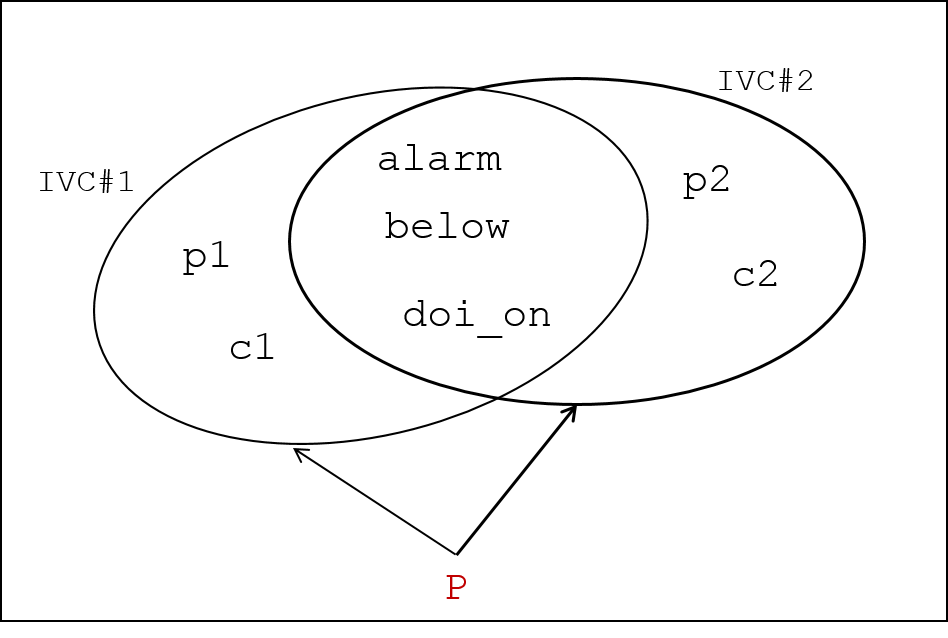
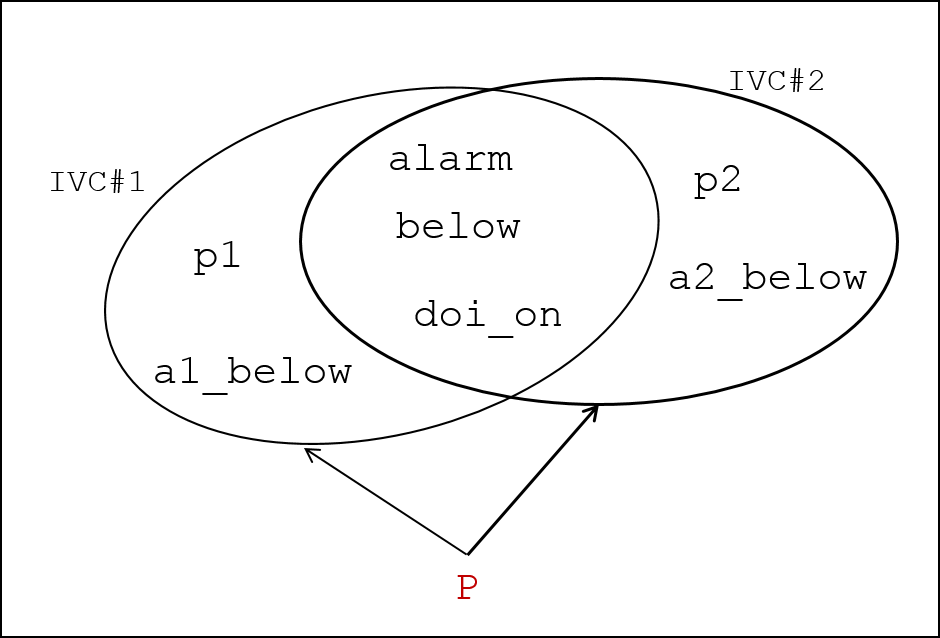
update the example-- all IVCs

diff --git a/all_ivcs/all_ivcs_TEX/allivcs.tex b/all_ivcs/all_ivcs_TEX/allivcs.tex
@@ -85,7 +85,7 @@ $\forall S \in AIVC(P)$, S is a minimal adequate set for $P$.
 The main core of an algorithm for computing $AIVC(P)$ is to choose an \emph{unexplored} $S \in \mathcal{P}(T)$ and examine whether or not it is adequate for $P$; if so, then compute an $S' \subseteq S$ such that $IVC(P, S')$.
 To choose $S$ and keep track of which parts of the the power set
 have been explored, we use a Boolean variable $map$, which is
-in conjunctive normal form (CNF) and built gradually as the algorithm proceeds. 
+in conjunctive normal form (CNF) and built gradually as the algorithm proceeds.
 Basically, with the help of $map$, an unexplored set $S$ is selected, and after processing $S$,
 formula $map$ is updated in a way, which will be described, that marks $S$ as \emph{explored}.
 As $map$ gets updated, it guides our exploration algorithm for $AIVC$.
@@ -97,7 +97,7 @@ set of activation literals $\mathcal{A} = \{a_1...a_n\}$, where every $a_i$ is o
 is a bijection function assigning every $T_i \in T$ to an $a_i \in \mathcal{A}$ and vice versa.
 Then, a $map$ for $AIVC(P)$ is a CNF formula built over the elements of $\mathcal{A}$ such that:
 \begin{itemize}
-  \item Initially $map$ is $\top$ interpreted as the fact that the whole $\mathcal{P}(T)$ is unexplored.   
+  \item Initially $map$ is $\top$ interpreted as the fact that the whole $\mathcal{P}(T)$ is unexplored.
 clauses to map to block or remove the corresponding models
   \item When $map$ is satisfiable, a model of it is a set
   $M \in \mathcal{P}(\mathcal{A})$.
@@ -127,7 +127,7 @@ From Case 1 and Case 2, there is no model of $map$ whose corresponding set in $\
 
 \begin{lemma}
 \label{lem:map:comp}
-For $(I, T) \vdash P$, $map$ is unsatisfiable \emph{iff} all $S \in AIVC(P)$ and all $MIS$es of $T$ have been explored.
+For $(I, T) \vdash P$, $map$ is unsatisfiable \emph{iff} all $S \in AIVC(P)$ and all $MIS$es of $T$ (and thus every $S \in \mathcal{P}(T)$) have been explored.
 \end{lemma}
 \begin{proof}
 As with any CNF formula, $map$ is unsatisfiable \emph{iff} every complete assignment falsifies at least one of its clauses. Clauses in $map$ have especial structure;
@@ -137,16 +137,24 @@ $S$ is inadequate, it means that $S$ lacks a correction set $C$ of $T$ so to pro
 And, in this case, a new clause containing \emph{positive} activation literals of $C$ is added to $map$. Essentially, elements of correction are essential part of some proofs, so are elements in the adequate sets, which means eventually, negative literals added from adequate sets will have their own  positive form added from the correction sets(and vice versa).
 Therefore, every complete assignment falsifies at least one clause in $map$ \emph{iff} every
 member of $\mathcal{P}(T)$ is dominated by some adequate or inadequate set.
-And, considering the definitions of $IVC$ and $MIS$,  every member of $\mathcal{P}(T)$ is dominated by some set \emph{iff} all $IVC$s and $MIS$es have been explored.
+And, considering the definitions of $IVC$ and $MIS$,  every member of $\mathcal{P}(T)$ is dominated by some set \emph{iff} all $IVC$s and $MIS$es have been explored. According to definition of $map$, when all $IVC$s and $MIS$es are covered, every $S \in \mathcal{P}(T)$ will be covered as well.
 \end{proof}
 
-\begin{lemma}
-\label{lem:map:cc}
-For $(I, T) \vdash P$, $map$ is unsatisfiable \emph{iff} every $S \in \mathcal{P}(T)$ has been explored.
-\end{lemma}
-\begin{proof}
-Immediate from Lemma \ref{lem:map:comp}.
-\end{proof}
+%\begin{lemma}
+%\label{lem:map:cc}
+%For $(I, T) \vdash P$, $map$ is unsatisfiable \emph{iff} every $S \in \mathcal{P}(T)$ has been explored.
+%\end{lemma}
+%\begin{proof}
+%Immediate from Lemma \ref{lem:map:comp}.
+%\end{proof}
+
+
+Algorithm~\ref{alg:aivc} shows the process of capturing all IVCs, which are kept in set $A$.
+In line 2, we create the set of activation literals used by function \actlit . Line 3 initializes $map$ with $\top$ over the set of literals we have. The main loop of sate exploration starts at line 4 and continues until $map$ becomes \unsat that means all the IVCs have been found. We assume we have a function \checksat ~that determines if an existentially quantified formula  is satisfiable or not\footnote{We assume readers are familiar with the boolean satisfiability problem, which is the problem of determining whether there exists an assignment that satisfies a given propositional formula. For more information, refer to \cite{cook1971complexity}.}.
+%$$\checksat : Boolean \rightarrow \{ true~(\sat), false~(\unsat) \}$$
+As long as $map$ is satisfiable, the algorithm computes a \emph{maximal} \sat model for it (line 5). A maximal SAT model is a model with as many $true$ assignment as possible without violating a clause; this problem, known as MaxSAT, has been well studied in the literature \cite{cimatti2013modular, davies2011solving, morgado2013iterative}, so we assume there is a method by which we are able to have a maximal model of $map$.
+Line 6 extracts a set $M \in \mathcal{P} (\mathcal{A})$ of literals assigned to $true$ in the model.
+Then, we need to obtain the corresponding set of $M$ in $\mathcal{P}(T)$, which is done with function $\actlit ^{-1}$ in line 7. Note that such a set will be a $MIS$ whose all supersets have already been explored. We also assume there is a function \isadeq ~that checks whether or not $P$ is provable by a given subset of $T$. Using this function, the adequacy of $M$ is determined in line 8; if $M$ is adequate, an IVC $S' \subseteq M$ is computed by function \getivc and added to set $A$ (line 10).\footnote{Note that \isadeq ~can be any method that verifies a safety property, such as K-induction. As for \getivc , Ghassabani et al. proposed an efficient algorithm for computing a single IVC in \cite{Ghass16} which can be used for the \getivc ~function.} In this case $map$ is constrained by a new clause in a way described before and shown in line 11. However, in case that $M$ is inadequate, $map$ is constrained by the corresponding literals from the correction set of $M$ (i.e. $T \setminus M$) in lines (12-13).
 
 \begin{algorithm}[t]
   %\SetKwInOut{Input}{input}
@@ -157,17 +165,18 @@ Immediate from Lemma \ref{lem:map:comp}.
   $A \leftarrow \varnothing$\\
   Create activation literals $\{a_1, \ldots, a_n\}$ \\
  % $map \leftarrow true$ \\
-  $map \leftarrow$ empty Boolean formula with variables $a_1 \ldots a_n$ \\ 
+  $map \leftarrow$ empty Boolean formula with variables $a_1 \ldots a_n$ \\
  % $L \leftarrow \varnothing$ \\
   \BlankLine
-    
+
   \While{$\checksat (map)$} {
     $model \leftarrow $ build a maximal model of $map$ \\
     $M \leftarrow$ extract the set of variables assigned $true$ in $model$ \\
     $M \leftarrow \bigcup_{a_i \in M} \actlit ^{-1}(a_i)$ \\
- 
-    \If{$\isadeq (M)$}{
-      $S' \leftarrow \getivc (M)$ \\
+\BlankLine
+    \If{$\isadeq (P, M)$}{
+    \BlankLine
+      $S' \leftarrow \getivc (P, M)$ \\
       $A \leftarrow A \cup S'$ \\
       $map \leftarrow map \wedge (\bigvee_{T_{i}\in S'} \neg {\actlit (T_i)})$
     }
@@ -180,8 +189,28 @@ Immediate from Lemma \ref{lem:map:comp}.
 \caption{$\aivcalg (T, P)$}
 \label{alg:aivc}
 \end{algorithm}
- 
-\ela{in continue:\\describing algorithm\\say what maximal sat model is\\say in the maxsat algo, M is a literals that are true in maximal model\\ \\Maximal Models The first two goals were addressed in both [21] and [28] similar fashions: generate seeds by computing large or maximal models of map . A maximal model of map is one in which no False assignment can be made True without violating a clause; therefore, a maximal model will represent a subset of C for which all supersets have been explored\\ in implementation talk about max sat, must list, initialization of map \\In exploring the power set,we first define several functions; function \isadeq ~tells whether or not property $P$ is provable by a subset of $T$:$$\isadeq : \mathcal{P}(T) \rightarrow \{true~(adequate), false~(inadequate)\}$$ \noindent Function \checksat ~determines if an existentially quantified formula is satisfiable or not \footnote{We assume readers are familiar with the boolean satisfiability problem, which is the problem of determining whether there exists an assignment that satisfies a given propositional formula. For more information, refer to \cite{cook1971complexity}.}: $$\checksat : Boolean \rightarrow \{ true~(\sat), false~(\unsat) \}$$\\say why the algorithm is fast; because we block down and up based on MIS and IVC, which prunes the maximum number of cases from the search space (map)}
+
+\begin{theorem}
+\label{theorem:aivc}
+  Algorithm \ref{alg:aivc} enumerates all $MIS$es and $IVC$s.
+\end{theorem}
+\begin{proof}
+In each iteration of the \texttt{while} loop, Algorithm \ref{alg:aivc} explores a set which is either a $MIS$ or leads to an $IVC$. These sets have not explored before according to Lemma \ref{lem:map:sound}. So, in each iteration a new minimal adequate or maximal inadequate member of $\mathcal {P}(T)$ is explored. Therefore, the loop continues as long as there is any $IVC$ or
+$MIS$ not yet found.
+\end{proof}
+
+
+\begin{theorem}
+  Algorithm \ref{alg:aivc} will terminate.
+\end{theorem}
+\begin{proof}
+The algorithm will terminate \emph{iff} $map$ eventually becomes  \unsat.
+Based on Lemma \ref{lem:map:comp}, $map$ is \unsat \emph{iff} all
+$IVC$s and $MIS$es have been explored.
+So, following Theorem \ref{theorem:aivc},  Algorithm \ref{alg:aivc} will terminate.
+\end{proof}
+
+
 
 %\begin{algorithm}[t]
 %  $k' \leftarrow 1$ \\

diff --git a/all_ivcs/all_ivcs_TEX/background.tex b/all_ivcs/all_ivcs_TEX/background.tex
@@ -25,13 +25,13 @@ By further abuse of notation,
 $T$ is identified with the set of its top-level conjuncts. Thus, $T_i \in
 T$ means that $T_i$ is a top-level conjunct of $T$, and $S
 \subseteq T$ means all top-level conjuncts of $S$ are top-level
-conjuncts of $T$. When a top-level conjunct $T_i$ is removed from $T$, it is written as $T \setminus \{T_i\}$. Such a transition system can easily encode our example model in Section~\ref{sec:example}, where each equation defines a conjunct within $T$ that we will denote by the variable assigned; so, $T = \{$ {\small \texttt{a1\_below, a2\_below, c1, c2, below, alarm, p1, p2, doi\_on}} $\}$.
+conjuncts of $T$. When a top-level conjunct $T_i$ is removed from $T$, it is written as $T \setminus \{T_i\}$. Such a transition system can easily encode our example model in Section~\ref{sec:example}, where each equation defines a conjunct within $T$ that we will denote by the variable assigned; so, $T = \{$ {\small \texttt{a1\_below, a2\_below, below, alarm, doi\_on, p1, p2}} $\}$.
 
 The idea behind finding an IVC for a given property $P$ \cite{Ghass16} is based on the inductive proof methods used in SMT-based model checking, such as K-induction and PDR \cite{NFM2012:KaGaTiWh, amla2005analysis, Een2011:PDR}. Generally, an IVC computation technique aims to determine, for any subset $S \subseteq T$, whether $P$ is provable by $S$. Then, a minimal subset that satisfies $P$ is seen as a minimal proof explanation or traceability, which is called a minimal Inductive Validity Core.
 
 \begin{definition}{\emph{Minimal Inductive Validity Core (IVC) \cite{Ghass16}:}}
   \label{def:minimal-ivc}
-  $S \subseteq T$ for $(I, T)\vdash P$ is minimal Inductive Validity Core, 
+  $S \subseteq T$ for $(I, T)\vdash P$ is minimal Inductive Validity Core,
   denoted by $IVC(P, S)$, iff
   $(I, S) \vdash P \wedge (\forall T_i \in S.~ (I, S\setminus\{ T_i \}) \nvdash P) $.
 \end{definition}
@@ -39,51 +39,37 @@ The idea behind finding an IVC for a given property $P$ \cite{Ghass16} is based 
 For brevity, we use term ``IVC'' to refer to a minimal IVC. Note that, given a valid property $P$, not only there is always at least one IVC for $P$, but also there could be many distinct IVCs for $P$, corresponding to different proof paths. To capture the latter, \emph{all IVCs ($AIVC$)} relation has been introduced in \cite{Ghass16, Murugesan16:renext, Ghass17Cov}.
 \begin{definition}{\emph{All IVCs ($AIVC$)\cite{Murugesan16:renext, Ghass17Cov}:}}
     \label{def:allivcs}
-    Given $(I, T) \vdash P$, $AIVC(P)$ is an association to all IVCs for $P$: 
+    Given $(I, T) \vdash P$, $AIVC(P)$ is an association to all IVCs for $P$:
     $$ AIVC(P) \equiv  \{\ S~|~S \subseteq T \land  IVC(P, S)\} $$
 \end{definition}
 
-Figure~\ref{fig:ivcs} illustrates these notions by a graphical representation of IVCs for property $P = (\texttt{p1 or p2})$ in the example presented in Section~\ref{sec:example}; as shown in the picture, this property has two distinct IVCs, which means the model satisfies $P$ in two different ways: $AIVC(P) = \{ \{ \texttt{doi\_on},
-~\texttt{alarm},~\texttt{below},~\texttt{c1},~\texttt{p1}\},~ \allowbreak  
-\{ \texttt{doi\_on},~\texttt{alarm},
-~\texttt{below},~\texttt{c2},~\texttt{p2}\}\}$. 
-As you can see, distinct IVCs may have common elements. 
-The intersection of all IVCs is called the \emph{must} set for $P$. 
-And, the other elements constitute a \emph{may} set for $P$ \cite{Murugesan16:renext}: 
-\begin{itemize}
-  \item   $MUST (P) = \bigcap AIVC(P)$
-  \item  $MAY(P) = (\bigcup AIVC (P)) \setminus MUST(P)$
-  \item $IRR(P) = T \setminus (\bigcup AIVC(P))$
-\end{itemize}
-\noindent Given property $P$, functions $MUST$, $MAY$, and $IRR$ partition top-level conjuncts of $T$ (model elements) into three disjoint sets \emph{must}, \emph{may}, and \emph{irrelevant}, respectively. $IRR(P)$ returns portion of the model irrelevant to the satisfaction of $P$, which in our running example is $\varnothing$.
-We have used this intuition to devise heuristics for an efficient implementation, as will be discussed in Section~\ref{sec:impl}.
+Figure~\ref{fig:ivcs} illustrates these notions by a graphical representation of IVCs for property $P = (\small{\texttt{p1 or p2}})$ in the example presented in Section~\ref{sec:example}; as shown in the picture, this property has two distinct IVCs, which means the model satisfies $P$ in two different ways:
+$AIVC(P) = \{ \{ \small{ \texttt{doi\_on},
+~\texttt{alarm},~\texttt{below},~\texttt{a1\_below},~\texttt{p1}\},~ 
+\{ \texttt{doi\_on},~\texttt{alarm},}  \allowbreak \small{
+~\texttt{below},~\texttt{a2\_below},~\texttt{p2}\} }\}$. 
+
+%As you can see, distinct IVCs may have common elements.
+%The intersection of all IVCs is called the \emph{must} set for $P$.
+%And, the other elements constitute a \emph{may} set for $P$ \cite{Murugesan16:renext}:
+%\begin{itemize}
+%  \item   $MUST (P) = \bigcap AIVC(P)$
+%  \item  $MAY(P) = (\bigcup AIVC (P)) \setminus MUST(P)$
+%  \item $IRR(P) = T \setminus (\bigcup AIVC(P))$
+%\end{itemize}
+%\noindent Given property $P$, functions $MUST$, $MAY$, and $IRR$ partition top-level conjuncts of $T$ (model elements) into three disjoint sets \emph{must}, \emph{may}, and \emph{irrelevant}, respectively. $IRR(P)$ returns portion of the model irrelevant to the satisfaction of $P$, which in our running example is $\varnothing$.
+%We have used this intuition to devise heuristics for an efficient implementation, as will be discussed in Section~\ref{sec:impl}.
 
 \begin{figure}[t]
  \centering
   \includegraphics[width=0.9\columnwidth]{figs/ivcs.png}
   \label{fig:ivcs}
   \vspace{-0.1in}
-  \caption{Graphical representation of IVCs for the model in Figure\ref{fig:asw}}
+  \caption{Graphical representation of IVCs for the model in Figure\ref{fig:asw} with  $P = (\small{\texttt{p1 or p2}})$}
 \end{figure}
 
 %\subsection{Satisfiability}
 %In this subsection, we provide a brief background on satisfiability problem.
-%
-%\begin{figure}
-%\begin{gather*}
-%I(s_0) \Rightarrow P(s_0) \\[-2pt]
-%%
-%\vdots \\[2pt]
-%%
-%I(s_0) \land T(s_0, s_1) \land \cdots \land T(s_{k-2}, s_{k-1})
-%\Rightarrow P(s_{k-1}) \\[2pt]
-%%
-%P(s_0) \land T(s_0, s_1) \land \cdots \land P(s_{k-1}) \land
-%T(s_{k-1}, s_k) \Rightarrow P(s_k)
-%\end{gather*}
-%\caption{$k$-induction formulas: $k$ base cases and one inductive
-%  step}
-%\label{fig:k-induction}
-%\end{figure}
+ 
 
 

diff --git a/all_ivcs/all_ivcs_TEX/illust.tex b/all_ivcs/all_ivcs_TEX/illust.tex
@@ -1,6 +1,59 @@
 \section{Illustration}
 \label{sec:illust}
-We can visualize
-the power set as a lattice in a Hasse diagram as shown in Figure 1, in which each
-level contains subsets of a certain size and edges link sets with their immediate
-supersets and subsets. Furthermore, we will view the power set P ( C ) as a Boolean
+To illustrate the $AIVC$ algorithm we use the example presented in Section \ref{sec:example} with $P = (\small{\texttt{p1 or p2}})$ .
+%As inspired by the MARCO algorithm in \cite{marco2016fast}, we visualize $\mathcal{P}(\mathcal{A})$ as a lattice in a Hasse diagram (Figure~\ref{fig:lattice1}) to demonstrate the progress of the algorithm. As you can see, each level of the lattice contains sets with the same size linked to sets that are their immediate
+%supersets (upper level regions) and subsets (lower level regions). Note that the power set is viewed as a Boolean formula, so each member in the lattice shows
+% variable with $true$.
+For better illustration, we view $T$ as an ordered set with its top-level conjuncts; i.e. $T = \{$ {\small \texttt{a1\_below, a2\_below, below, alarm, doi\_on, p1, p2}} $\}$.
+The algorithm starts with assigning activation literals to each member of $T$. Let the ordered set of Boolean variables $\{ a_1, \ldots , a_7 \}$ be the corresponding literals to the elements of $T$ (e.g. $\actlit (\small{\texttt{a1\_below}}) = a_1$ and $\actlit (\small{\texttt{p2}}) = a_7$). Then line 3 initializes $map$ with $\top$. 
+
+In the first iteration of the \texttt{while} loop, since $map$ is empty,
+it is satisfiable, and a model for it can
+be any subset of literals. So obviously, the first maximal model of $map$ contains all the literals, which means, in line 6, $M = {a_1, \ldots, a_7}$,
+ and in line 7, $M = T$. Since $M$ is adequate for $P$, 
+ the function \getivc is called in line 9. 
+ Suppose the returned IVC by this function  is 
+ $S' = \{ \small{ \texttt{a1\_below},~\texttt{below}, ~\texttt{alarm},
+~\texttt{doi\_on},~\texttt{p1}}\}$; 
+this set is added to $A$ in line 10, and thus it comes to adding a new clause to $map$ (line 11), which makes $map = (\neg a_1 \vee \neg a_3 \vee \neg a_4 \vee \neg a_5 \vee \neg a_6)$. 
+As discussed, this constraint marks all the supersets of $S'$ as explored and prune them off the search space.
+
+For the second iteration, $map$ is still satisfiable, 
+so the algorithm gets to find a maximal model of it in line 5. Suppose this time, the maximal model makes $M = \{a_2, \ldots, a_7\}$, 
+which leads $M = T \setminus \{\small{\texttt{a1\_below}}\} $ in line 7. 
+Since this $M$ is adequate for $P$, \getivc computes a new $IVC$ in line 9. 
+Let the new $IVC$ be $S' = \{ \small{ \texttt{a2\_below},~\texttt{below}, ~\texttt{alarm},
+~\texttt{doi\_on},~\texttt{p2}}\}$; after adding this set to $A$, 
+it is time to constrain $map$ by a new clause in line 11, 
+which results in $map = map \wedge (\neg a_2 \vee \neg a_3 \vee \neg a_4 \vee \neg a_5 \vee \neg a_7)$. 
+
+Although we found two $IVC$s of $P$, $map$ is still satisfiable meaning that the power set has not yet explored entirely.\footnote{Note that the algorithm terminates when all $IVC$s and $MIS$es are explored. Up to now, only $IVC$s have been explored.} So, we get into the third iteration of the \texttt{while} loop. Let the maximal model returned this time 
+yields to a 
+$M = T \setminus \{ \small{ \texttt{a1\_below},~\texttt{a\_2below}}\}$
+ in line 7. 
+This time, $M$ is inadequate, so we get into line 13 updating $map$ as 
+$map = map \wedge (a_1 \vee a_2)$. 
+Note that by adding this new clause to $map$, 
+all the subsets of $T \setminus \{ \small{ \texttt{a1\_below},~\texttt{a\_2below}}\}$ 
+are removed from the search space.
+
+The algorithm continues similar to the third iteration leading to $M$ in lines 7 and $map$ in line 13 to be as follows:
+\begin{itemize}
+  \item Iteration 4:  $M = T \setminus \{ \small{ \texttt{alarm}}\}$, $map = map \wedge a_4$
+ 
+  \item Iteration 5: $M = T \setminus \{ \small{ \texttt{p1},~\texttt{p2}}\}$, $map = map \wedge (a_6 \vee a_7)$
+ 
+  \item Iteration 6: $M = T \setminus \{ \small{ \texttt{doi\_on}}\}$, $map = map \wedge a_5$
+ 
+  \item Iteration 7: $M = T \setminus \{ \small{ \texttt{below}}\}$, $map = map \wedge a_3$
+ 
+  \item Iteration 8: $M = T \setminus \{ \small{ \texttt{a1\_below},~\texttt{p2}}\}$, $map = map \wedge (a_1 \vee a_7)$
+      
+  \item Iteration 9: $M = T \setminus \{ \small{ \texttt{a2\_below},~\texttt{p1}}\}$, $map = map \wedge (a_2 \vee a_6)$
+\end{itemize}
+Finally, after ninth iteration, $map$ becomes \unsat and the algorithm terminates. 
+It should be pointed out that different runs of the algorithm might discovers $MIS$es and $IVC$s in different orders. The order by which sets are explored is 
+quite dependent on the maximal model returned in line 6 as well as the $IVC$ returned in line 9 in each iteration of the loop because there could be several distinct maximal models ($MIS$es) and $IVC$s. Another thing to consider the power set exploration problem. For this example with a $|T| = 7$ and $|\mathcal{P}(T)| = 2^7$, a brute force approach of power set exploration needs to look into  $2^7$ cases. However, the $AIVC$ algorithm only explored 9 cases to cover the entire power set. However, depending on the order by which $IVC$s and $MIS$es are discovered, the total cases needed to be explored by the algorithm maybe different.
+% All in all, it is fair to say the $AIVC$ algorithm is  linear in the size of $T$.
+%This issue could affect the performance of the algorithm as well.
+

diff --git a/all_ivcs/all_ivcs_TEX/example.tex b/all_ivcs/all_ivcs_TEX/example.tex
@@ -16,24 +16,26 @@
 %\includegraphics[width=\columnwidth]{figs/simulink.png}
 {\smaller
 \begin{verbatim}
-node asw(alt1, alt2: int; stat1, stat2 : bool) 
-     returns (doi_on: bool; alarm: bool);
+node asw(alt1, alt2: int; stat1, stat2 : bool)
+     returns (alarm: bool; doi_on: bool);
 var
-   a1_below, a2_below, below, 
-   c1, c2, p1, p2, p: bool; 
+   a1_below, a2_below, below,
+   p1, p2 : bool;
 let
-   a1_below = (alt1 < THRESHOLD);        // (1)
-   a2_below = (alt2 < THRESHOLD);        // (2) 
-   c1 = stat1 and a1_below;              // (3)
-   c2 = stat2 and a2_below;              // (4)
-   below = if c1 or c2                   // (5)
-        then true else alarm;
-   alarm = not stat1 and not stat2;      // (6) 
-   doi_on = if alarm then pre(doi_on)    // (7)
-            else if below then true      //
-            else false;                  //
-   p1 = stat1 and a1_below => doi_on;    // (8)
-   p2 = stat2 and a2_below => doi_on ;   // (9)
+   a1_below = if stat1                   // (1)
+              then (alt1 < THRESHOLD)    
+              else false;               
+   a2_below = if stat2                   // (2)
+              then (alt2 < THRESHOLD)    
+              else false;                 
+   below = if if a1_below or a2_below    // (3)
+           then true else alarm;
+   alarm = not stat1 and not stat2;      // (4)
+   doi_on = if alarm then pre(doi_on)    // (5)
+            else if below then true      
+            else false;                  
+   p1 = a1_below => doi_on;              // (6)
+   p2 = a2_below => doi_on ;             // (7)
 tel;
 \end{verbatim}
 }
@@ -42,7 +44,7 @@ tel;
 \label{fig:asw}
 \end{figure}
 
-We will use a very simple version of an Altitude Switch (ASW) from the avionics domain as a running example throughout the paper, which is written in the Lustre language (simplified and adapted from~\cite{HCW02:ase-deviation}) (Figure~\ref{fig:asw}). 
+We will use a very simple version of an Altitude Switch (ASW) from the avionics domain as a running example throughout the paper, which is written in the Lustre language (simplified and adapted from~\cite{HCW02:ase-deviation}) (Figure~\ref{fig:asw}).
 Lustre~\cite{Halbwachs91:lustre} is a synchronous dataflow language
 used as an input language for various model checkers. A Lustre program runs over discrete
 time steps. On each step, the input variables take on some values and
@@ -51,9 +53,8 @@ In addition, equations may refer to the previous value of a variable
 using the {\tt pre} operator.
 
 In our scenario, the ASW is a hypothetical device that turns power on to another subsystem, the Device of Interest (DOI), when the aircraft descends below a threshold altitude.
-For fault tolerance, it is assumed that there are two altimeters that send altitude to the ASW system in terms of input variables \texttt{alt1} and \texttt{alt2}.  
+For fault tolerance, it is assumed that there are two altimeters that send altitude to the ASW system in terms of input variables \texttt{alt1} and \texttt{alt2}.
 It is possible that sensors fail due to different reasons so input variables \texttt{stat1} and \texttt{stat2}, respectively, show the working status of the altimeters \texttt{alt1} and \texttt{alt2}; e.g. when the altimeter \texttt{alt1} is not working, \texttt{stat1} will be \texttt{false}. In the case that both altimeters fail, an ``alarm'' will be triggered (the output \texttt{alarm} will be set to \texttt{true}).
-%The notation \texttt{pre(doi\_on))} in equation (7) shows the previous value of \texttt{doi\_on}. 
+%The notation \texttt{pre(doi\_on))} in equation (7) shows the previous value of \texttt{doi\_on}.
 One simple property over this model is that whenever sensors are working and altitude falls below the threshold, output variable \texttt{doi\_on} shall be true. Equations \texttt{p1} and \texttt{p2} show different scenarios under which the DOI might gets on. So, we can specify the property in terms of these equations as \texttt{(p1 or p2)}.
 In the remainder of the paper, we will use this model to illustrate different notions.
- 

diff --git a/all_ivcs/all_ivcs_TEX/impl.tex b/all_ivcs/all_ivcs_TEX/impl.tex
@@ -3,6 +3,10 @@
 
 tell how function map has been built.
 
+in implementation talk about max sat, must list, initialization of map
+
+say why the algorithm is fast; because we block down and up based on MIS and IVC, which prunes the maximum number of cases from the search space (map)
+
 %We have implemented the inductive validity core algorithms in the
 %previous section in two tools: {\em JKind}, which performs the \ucalg
 %algorithm, and {\em JSupport}, which can compute either the \bfalg or

diff --git a/all_ivcs/all_ivcs_TEX/results.tex b/all_ivcs/all_ivcs_TEX/results.tex
@@ -6,7 +6,9 @@
 \noindent\fbox{\parbox{0.975\columnwidth}{#1}}
 \vspace{6pt}
 }
- 
+ the overhead
+in discovering all IVCs is a linear in the number of unique IVC
+in the problem multiplied by the cost for finding a proof for
 %
 %
 %\subsection{Performance}
